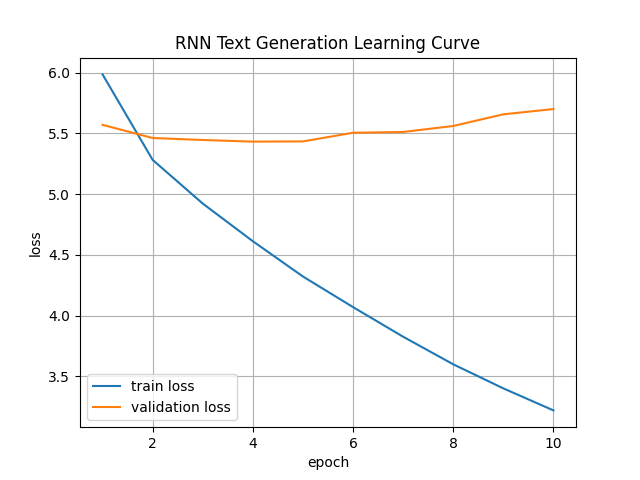
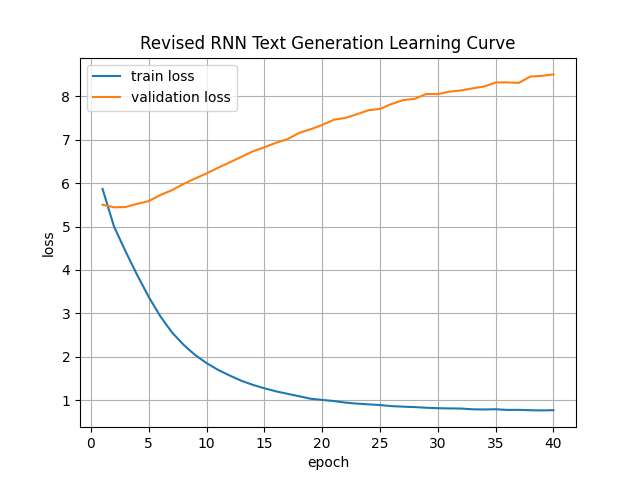
replot generation curve for the revised rnn generator

diff --git a/local_code/stage_4_code/plot_generation_curve.py b/local_code/stage_4_code/plot_generation_curve.py
@@ -6,7 +6,7 @@ import matplotlib.pyplot as plt
 
 # hiral saved the losses here after training
 here = os.path.dirname(os.path.abspath(__file__))
-result_dir = os.path.join(here, '..', '..', 'result', 'stage_4_result', 'generation', 'rnn_review_baseline')
+result_dir = os.path.join(here, '..', '..', 'result', 'stage_4_result', 'generation', 'rnn_glove_readability_01')
 
 with open(os.path.join(result_dir, 'history.json')) as f:
     history = json.load(f)
@@ -21,7 +21,7 @@ plt.plot(epochs, train_loss, label='train loss')
 plt.plot(epochs, val_loss, label='validation loss')
 plt.xlabel('epoch')
 plt.ylabel('loss')
-plt.title('RNN Text Generation Learning Curve')
+plt.title('Revised RNN Text Generation Learning Curve')
 plt.legend()
 plt.grid(True)
 
